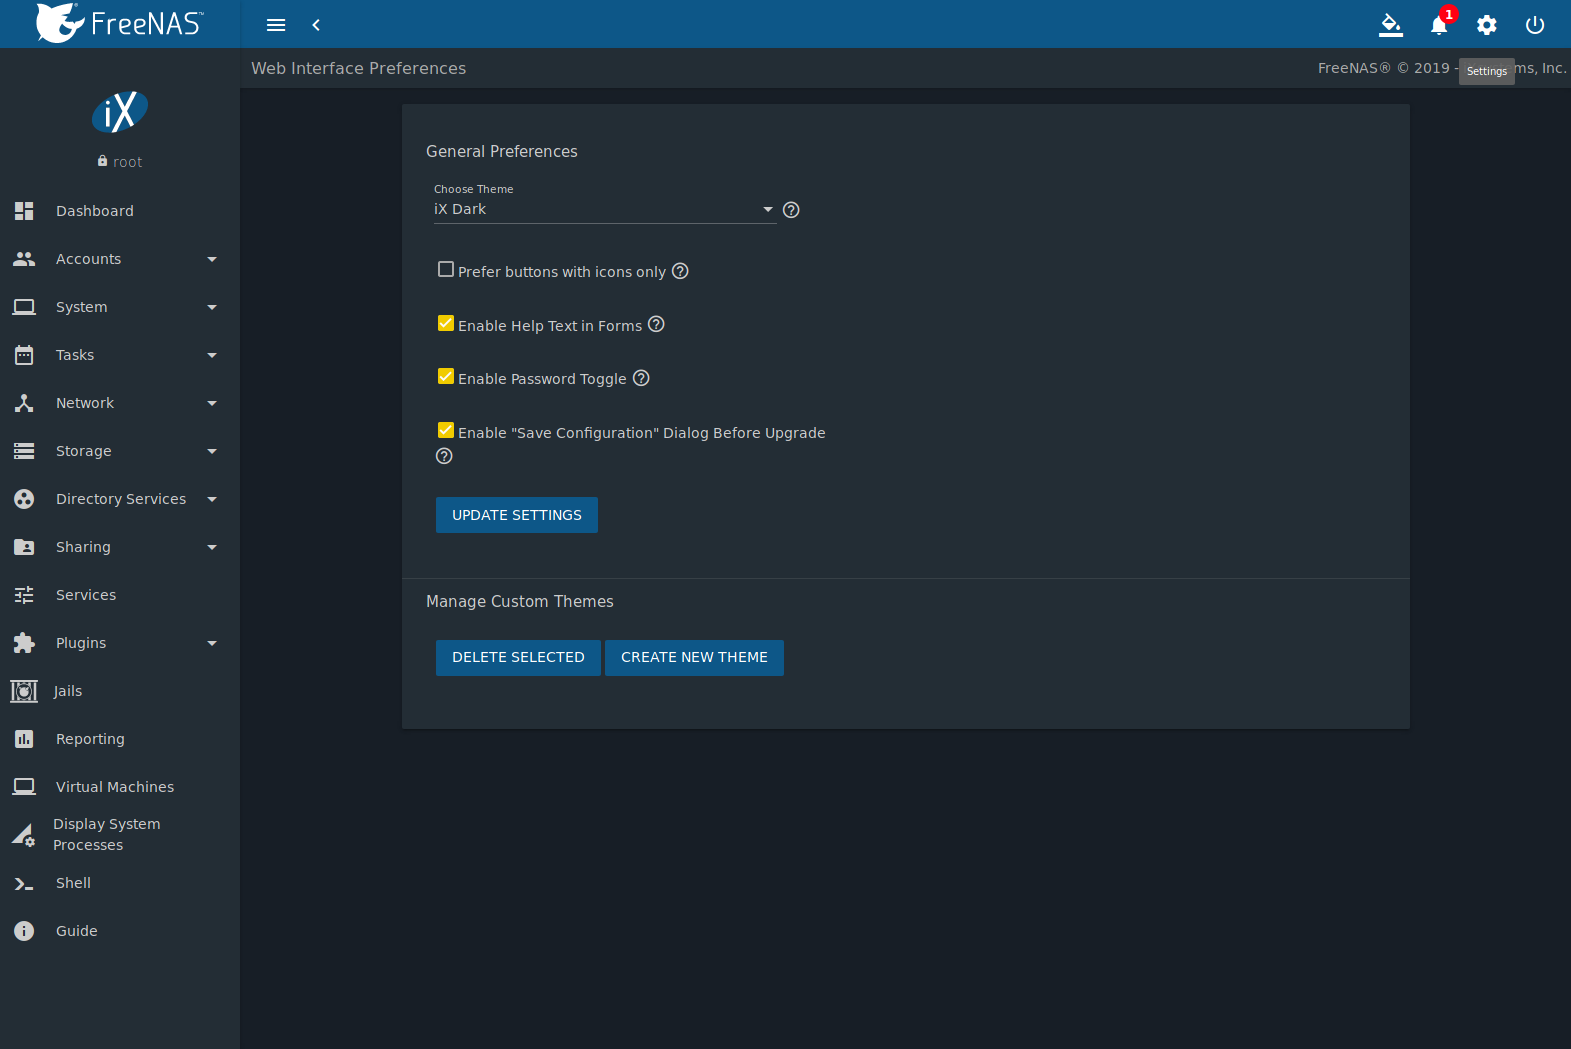
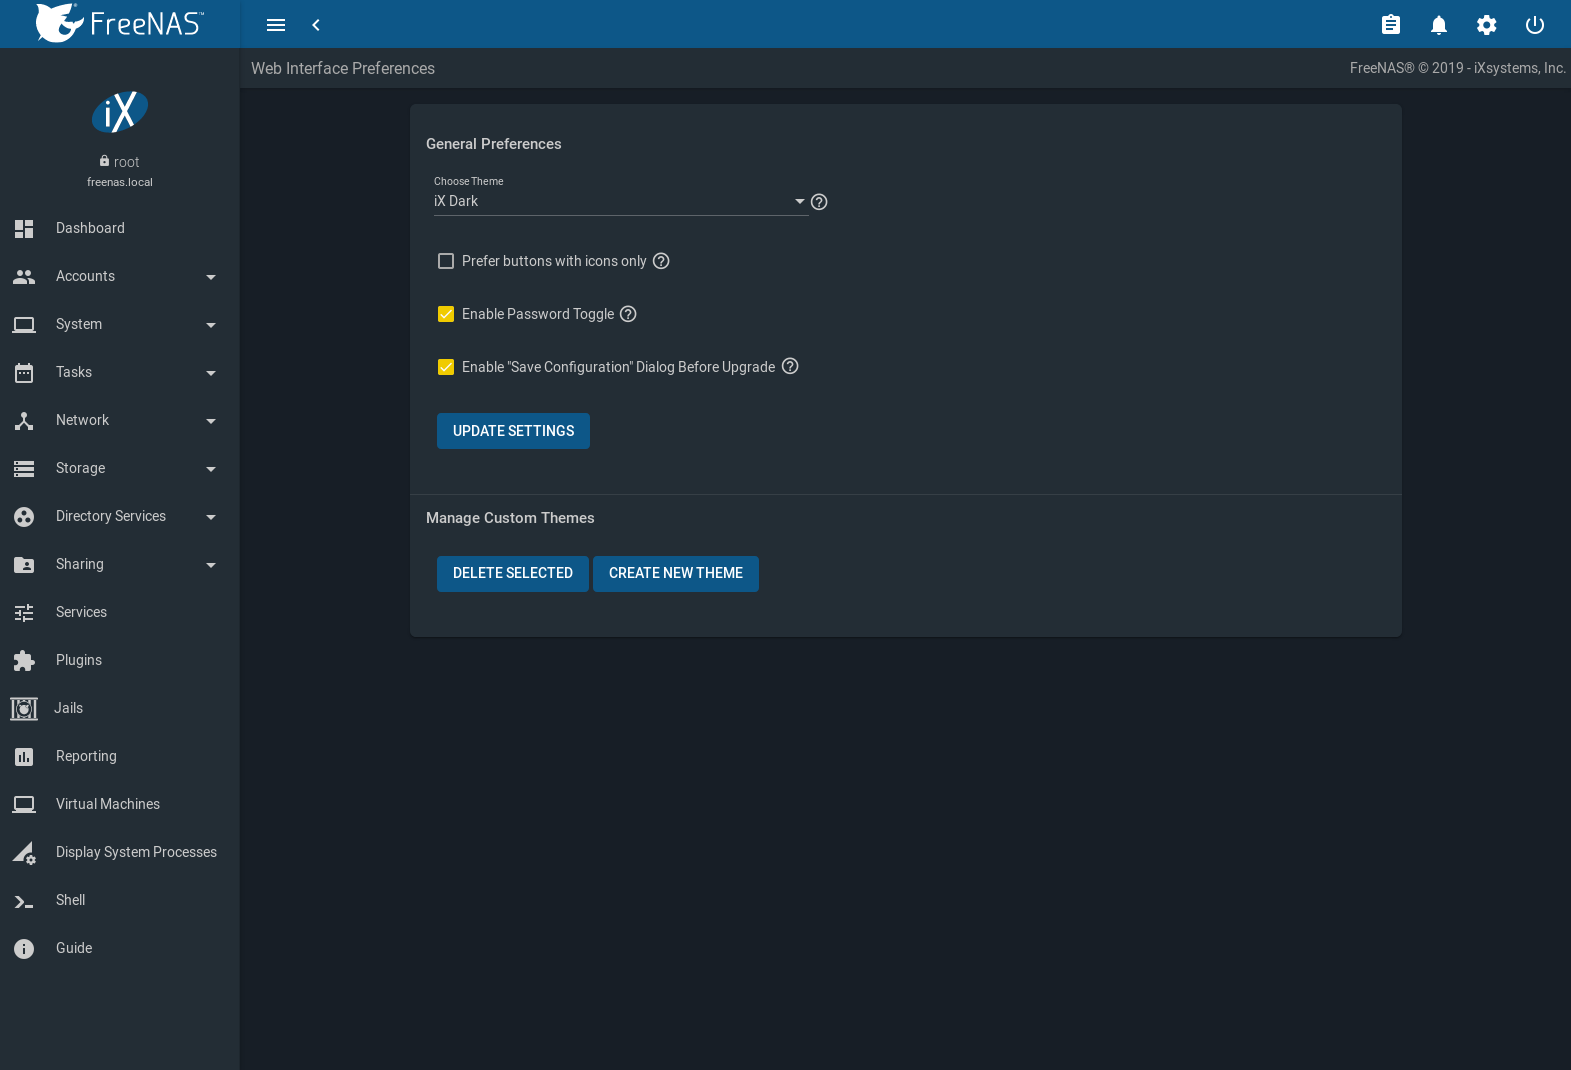
NAS-102986: Remove help text toggle - Update Settings/Preferences text - Update related image - Update change note for Preferences screen - HTML build test: no issues

diff --git a/userguide/intro.rst b/userguide/intro.rst
@@ -185,8 +185,8 @@ These screen options have changed:
 * The :guilabel:`Theme Selector` has been removed from the top
   navigation bar. The theme is now selected in :ref:`Preferences`.
 
-* The :guilabel:`Add to Favorites` checkbox has been removed from
-  :ref:`Preferences`.
+* :guilabel:`Add to Favorites` and :guilabel:`Enable Help Text` have
+  been removed from :ref:`Preferences`.
 
 * The :ref:`alerts list <Alert>` has been improved.
   :guilabel:`Clear All Alerts` has has been changed to

diff --git a/userguide/settings.rst b/userguide/settings.rst
@@ -72,9 +72,6 @@ These options are applied to the entire |web-ui|:
 * :guilabel:`Prefer buttons with icons only`: Set to preserve screen
   space and only display icons and tooltips instead of text labels.
 
-* :guilabel:`Enable Help Text in Forms`: Set to add pinnable help boxes
-  to each form in the |web-ui|. Unset to hide all help icons.
-
 * :guilabel:`Enable Password Toggle`: Set to add the option to toggle
   between hidden or visible text for passwords in forms.
 
